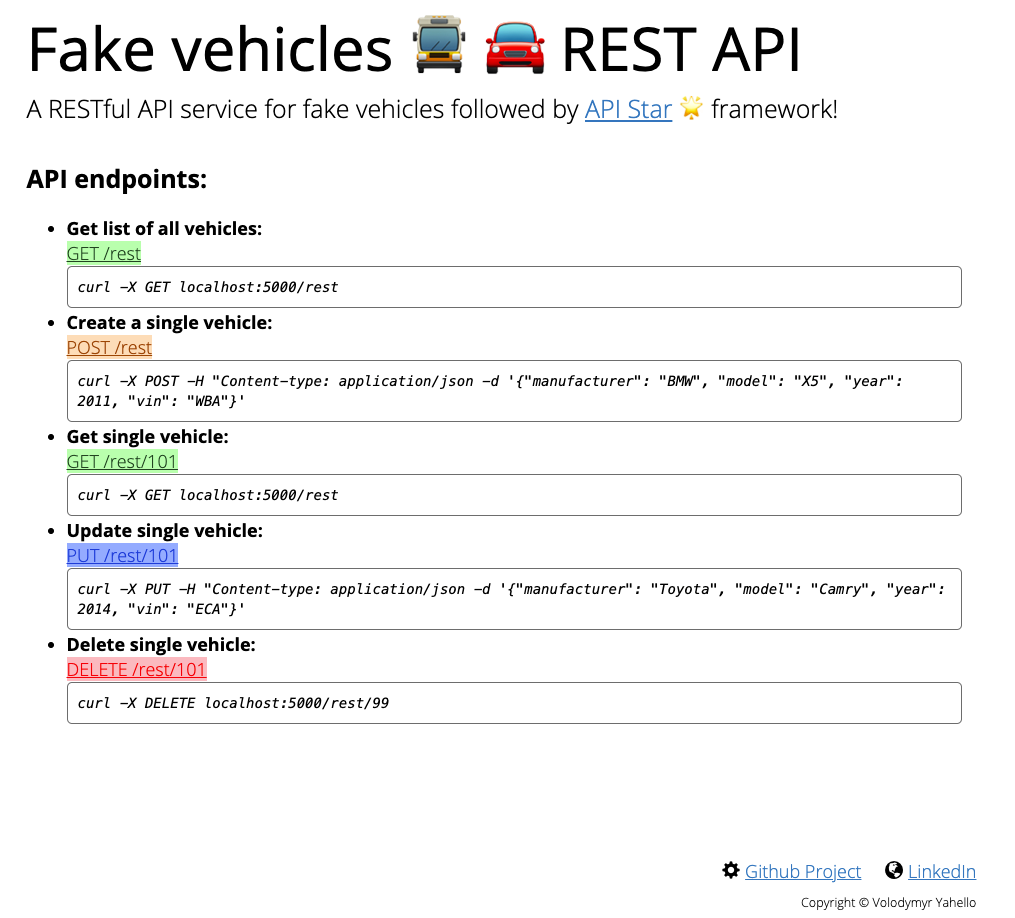
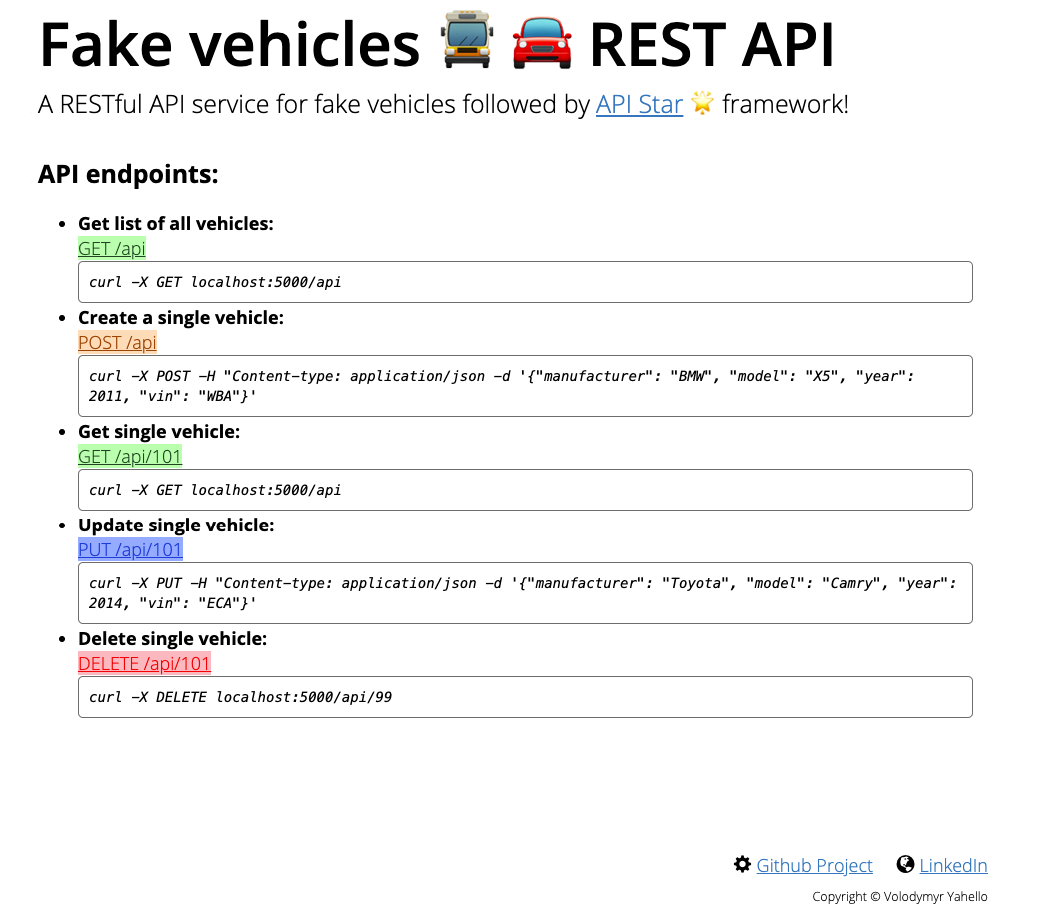
Use "api" endpoint for app APIs

Changed region(s): [[0.0305, 0.184, 0.9468, 0.7974], [0.0305, 0.0, 0.8246, 0.1533], [0.7025, 0.92, 0.9468, 1.0]]

diff --git a/templates/home/index.html b/templates/home/index.html
@@ -10,33 +10,33 @@
             <ul>
                 <li>
                     <strong>Get list of all vehicles:</strong><br>
-                    <a class="get" href="/rest">GET /rest</a>
+                    <a class="get" href="/api">GET /api</a>
                     <br>
-                    <div class="request"><i>curl -X GET localhost:5000/rest</i></div>
+                    <div class="request"><i>curl -X GET localhost:5000/api</i></div>
                 </li>
                 <li>
                     <strong>Create a single vehicle:</strong><br>
-                    <a class="post" href="/rest">POST /rest</a>
+                    <a class="post" href="/api">POST /api</a>
                     <br>
-                    <div class="request"><i>curl -X POST -H "Content-type: application/json -d '{"manufacturer": "BMW", "model": "X5", "year": 2011, "vin": "WBA"}'</i></div>
+                    <div class="request"><i>curl -X POST -H "Content-type: application/json" -d '{"manufacturer": "BMW", "model": "X5", "year": 2011, "vin": "WBA"}'</i></div>
                 </li>
                 <li>
                     <strong>Get single vehicle:</strong><br>
-                    <a class="get" href="/rest/101">GET /rest/101</a>
+                    <a class="get" href="/api/101">GET /api/101</a>
                     <br>
-                    <div class="request"><i>curl -X GET localhost:5000/rest</i></div>
+                    <div class="request"><i>curl -X GET localhost:5000/api</i></div>
                 </li>
                 <li>
                     <strong>Update single vehicle:</strong><br>
-                    <a class="put" href="/rest/101">PUT /rest/101</a>
+                    <a class="put" href="/api/101">PUT /api/101</a>
                     <br>
-                    <div class="request"><i>curl -X PUT -H "Content-type: application/json -d '{"manufacturer": "Toyota", "model": "Camry", "year": 2014, "vin": "ECA"}'</i></div>
+                    <div class="request"><i>curl -X PUT -H "Content-type: application/json" -d '{"manufacturer": "Toyota", "model": "Camry", "year": 2014, "vin": "ECA"}'</i></div>
                 </li>
                 <li>
                     <strong>Delete single vehicle:</strong><br>
-                    <a class="delete" href="/rest/101">DELETE /rest/101</a>
+                    <a class="delete" href="/api/101">DELETE /api/101</a>
                     <br>
-                    <div class="request"><i>curl -X DELETE localhost:5000/rest/99</i></div>
+                    <div class="request"><i>curl -X DELETE localhost:5000/api/99</i></div>
                 </li>
             </ul>
             </p>

diff --git a/tests/functional/test_produce_vehicle.py b/tests/functional/test_produce_vehicle.py
@@ -8,17 +8,17 @@ from tests.markers import smoke
 
 @pytest.fixture(scope="module")
 def response_success(client: TestClient) -> requests.Response:
-    return client.post("/rest", data={"manufacturer": "BMW", "model": "X5", "year": 2011, "vin": "WBAWV53589P465532"})
+    return client.post("/api", data={"manufacturer": "BMW", "model": "X5", "year": 2011, "vin": "WBAWV53589P465532"})
 
 
 @pytest.fixture(scope="module")
 def response_missing_fields(client: TestClient) -> requests.Response:
-    return client.post("/rest", data={"foo": "bar"})
+    return client.post("/api", data={"foo": "bar"})
 
 
 @pytest.fixture(scope="module")
 def response_fields_validation(client: TestClient) -> requests.Response:
-    return client.post("/rest", data={"manufacturer": "A" * 51, "model": "A" * 51, "year": 2051})
+    return client.post("/api", data={"manufacturer": "A" * 51, "model": "A" * 51, "year": 2051})
 
 
 @smoke

diff --git a/tests/functional/test_update_vehicle.py b/tests/functional/test_update_vehicle.py
@@ -9,17 +9,17 @@ _data = {"id_": 9, "manufacturer": "Audi", "model": "S8", "year": 2002, "vin": "
 
 @pytest.fixture(scope="module")
 def response_success(client: TestClient) -> requests.Response:
-    return client.put("/rest/9", data=_data)
+    return client.put("/api/9", data=_data)
 
 
 @pytest.fixture(scope="module")
 def response_error(client: TestClient) -> requests.Response:
-    return client.put("/rest/9999", data=_data)
+    return client.put("/api/9999", data=_data)
 
 
 @pytest.fixture(scope="module")
 def response_validation(client: TestClient) -> requests.Response:
-    return client.put("/rest/9999", data={"manufacturer": "A" * 51, "model": "S" * 51, "year": 1899})
+    return client.put("/api/9999", data={"manufacturer": "A" * 51, "model": "S" * 51, "year": 1899})
 
 
 @smoke

diff --git a/tests/functional/test_remove_vehicle.py b/tests/functional/test_remove_vehicle.py
@@ -10,12 +10,12 @@ _initial_count: int = len(list_of_vehicles)
 
 @pytest.fixture(scope="module")
 def response(client: TestClient) -> requests.Response:
-    return client.delete("/rest/10")
+    return client.delete("/api/10")
 
 
 @pytest.fixture(scope="module")
 def response_error(client: TestClient) -> requests.Response:
-    return client.get("/rest/10")
+    return client.get("/api/10")
 
 
 @smoke
@@ -30,7 +30,7 @@ def test_delete_vehicle_content(response: requests.Response) -> None:
 
 @smoke
 def test_count_vehicles(client: TestClient) -> None:
-    assert len(client.get("/rest").json()) == _initial_count
+    assert len(client.get("/api").json()) == _initial_count
 
 
 @smoke

diff --git a/tests/functional/test_get_vehicle.py b/tests/functional/test_get_vehicle.py
@@ -7,12 +7,12 @@ from tests.markers import smoke
 
 @pytest.fixture(scope="module")
 def response_success(client: TestClient) -> requests.Response:
-    return client.get("/rest/10")
+    return client.get("/api/10")
 
 
 @pytest.fixture(scope="module")
 def response_error(client: TestClient) -> requests.Response:
-    return client.get("/rest/9999")
+    return client.get("/api/9999")
 
 
 @smoke

diff --git a/api/setup.py b/api/setup.py
@@ -23,7 +23,7 @@ class Setup:
 class MoveTo(NamedTuple):
     """The class represents holder for redirect route on action."""
 
-    root: str = "/rest"
+    root: str = "/api"
     home: str = "/"
     index: str = "/index.html"  # type: ignore
-    id_: str = "/rest/{vehicle_id}"
+    id_: str = "/api/{vehicle_id}"

diff --git a/tests/functional/test_get_vehicles.py b/tests/functional/test_get_vehicles.py
@@ -7,7 +7,7 @@ from tests.markers import smoke
 
 @pytest.fixture(scope="module")
 def response(client: TestClient) -> requests.Response:
-    return client.get("/rest")
+    return client.get("/api")
 
 
 @smoke

diff --git a/README.md b/README.md
@@ -34,22 +34,22 @@ It will show you a page with available endpoints and usage details:
 
 ### API endpoints
 There are several endpoints already developed (others will be added soon):
-  - `GET` request on `/rest` endpoint to get list of all vehicles e.g:
-    > `curl localhost:5000/rest`
-  - `POST` request on `/rest` endpoint to create a vehicle e.g:
+  - `GET` request on `/api` endpoint to get list of all vehicles e.g:
+    > `curl localhost:5000/api`
+  - `POST` request on `/api` endpoint to create a vehicle e.g:
     > `curl -X POST \` \
     `-H "Content-type: application/json \"` \
     `-d {"manufacturer": "BMW", "model": "X5", "year": 2011, "vin": "WBAWV53589P465532"}' \` \
-    `localhost:5000/rest`
-  - `GET` request on `/rest/{id}` endpoint to get single vehicle e.g:
-    > `curl localhost:5000/rest/99`
-  - `PUT` request on `/rest/{id}` endpoint to update single vehicle e.g:
+    `localhost:5000/api`
+  - `GET` request on `/api/{id}` endpoint to get single vehicle e.g:
+    > `curl localhost:5000/api/99`
+  - `PUT` request on `/api/{id}` endpoint to update single vehicle e.g:
     > `curl -X PUT \` \
     `-H "Content-type: application/json" \` \
     `-d '{"manufacturer": "BMW", "model": "X5", "year": 2011, "vin": "WBAWV53589P465532"}' \` \
-    `localhost:5000/rest/99`
-  - `DELETE` request on `/rest/{id}` to delete single vehicle e.g:
-    > `curl -X DELETE localhost:5000/rest/99`
+    `localhost:5000/api/99`
+  - `DELETE` request on `/api/{id}` to delete single vehicle e.g:
+    > `curl -X DELETE localhost:5000/api/99`
 
 ### Testing
 Project is covered with both **_unittests_** on code basis and **_functional_** tests on REST API endpoints with [pytest](https://docs.pytest.org/en/latest) testing framework.
@@ -66,7 +66,7 @@ Please run next command from the root directory to start testing:
 Please open `test-report.html` file in your browser to see testing report.
 
 ### Debugging
-In case of code debugging we use a contemporary [pdb++](https://pypi.org/project/pdbpp) package as an easy-way to track your code.
+In case of code debugging please use contemporary [pdb++](https://pypi.org/project/pdbpp) package as an easy-way to track your code.
 It is wrapper of a builtin [pbd](https://docs.python.org/3/library/pdb.html) package but with features extensions.
 
 To make it work just install it from `requirements-dev.txt` file and use [breakpoint()](https://docs.python.org/3/library/functions.html#breakpoint) function call e.g:
@@ -118,6 +118,8 @@ heroku logs --tail
 
 ## Release History
 
+* 1.3.1
+    * Use "api" endpoint for app APIs
 * 1.3.0
     * Deploy app on heroku at https://fake-vehicles-api.herokuapp.com
 * 1.2.0
@@ -132,7 +134,7 @@ heroku logs --tail
     * Build basic CRUD API endpoints
 
 ## Meta
-My name – Volodymyr Yahello vyahello@gmail.com
+Author – Volodymyr Yahello vyahello@gmail.com
 
 Distributed under the `MIT` license. See [LICENSE](LICENSE.md) for more information.
 
